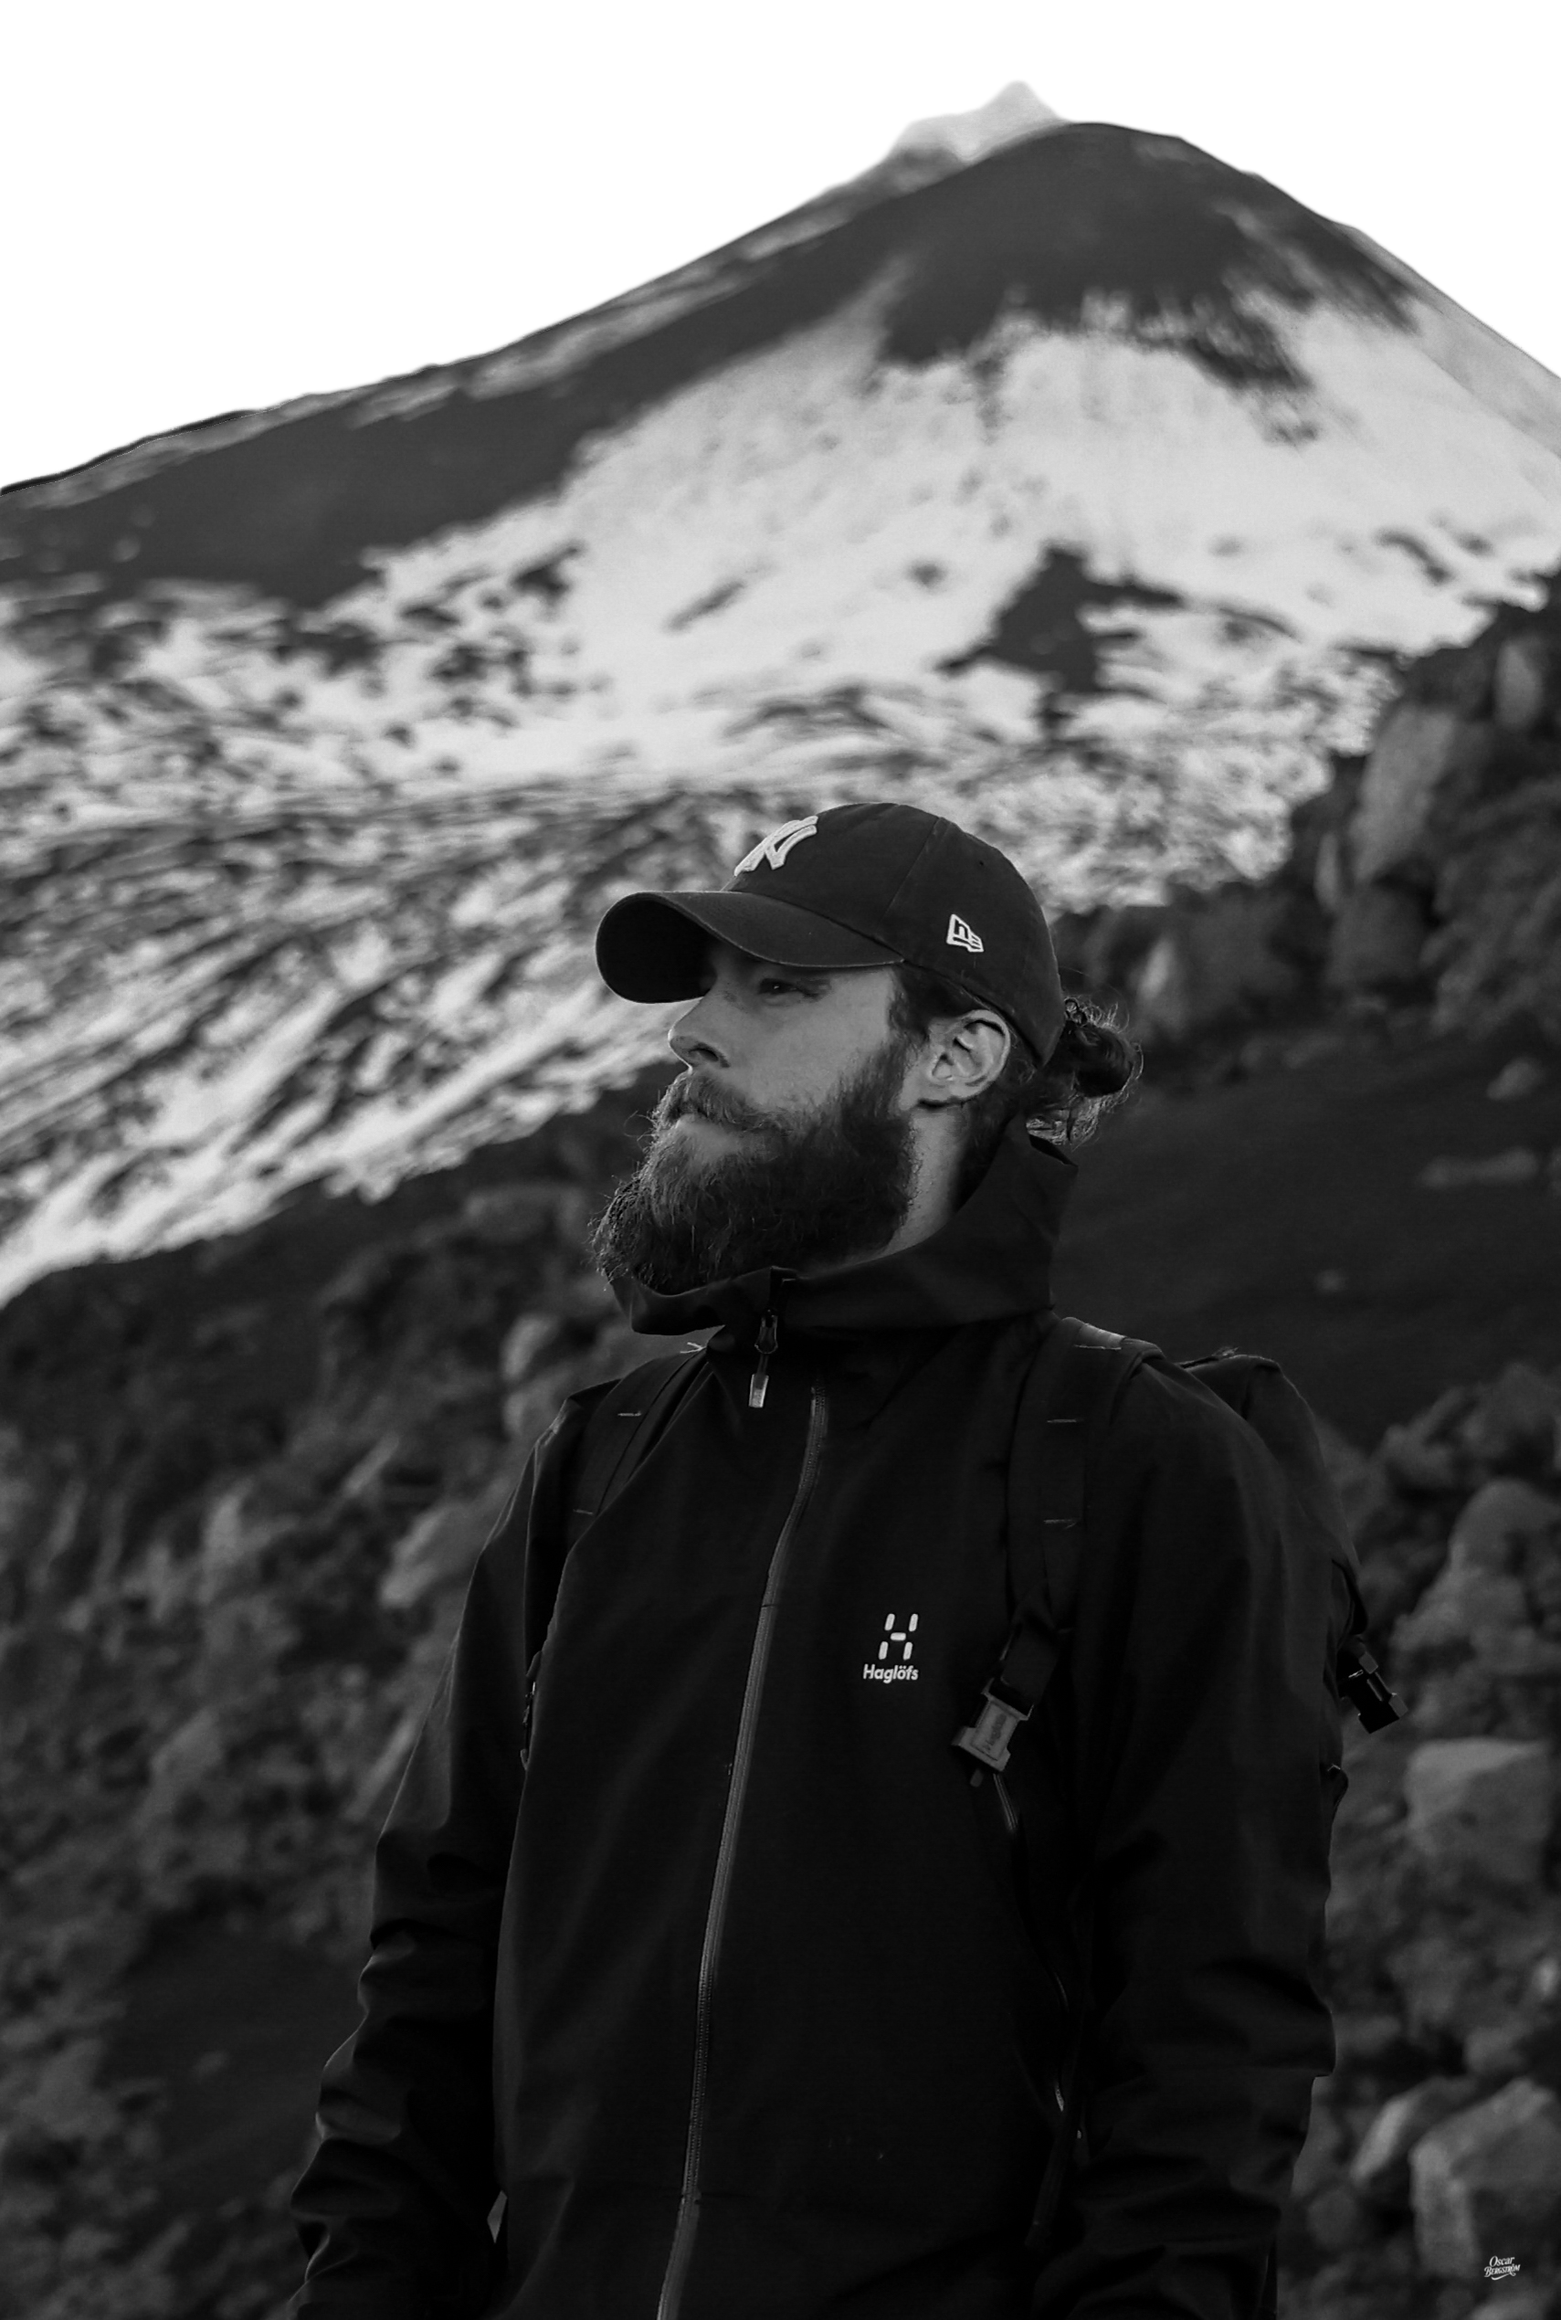
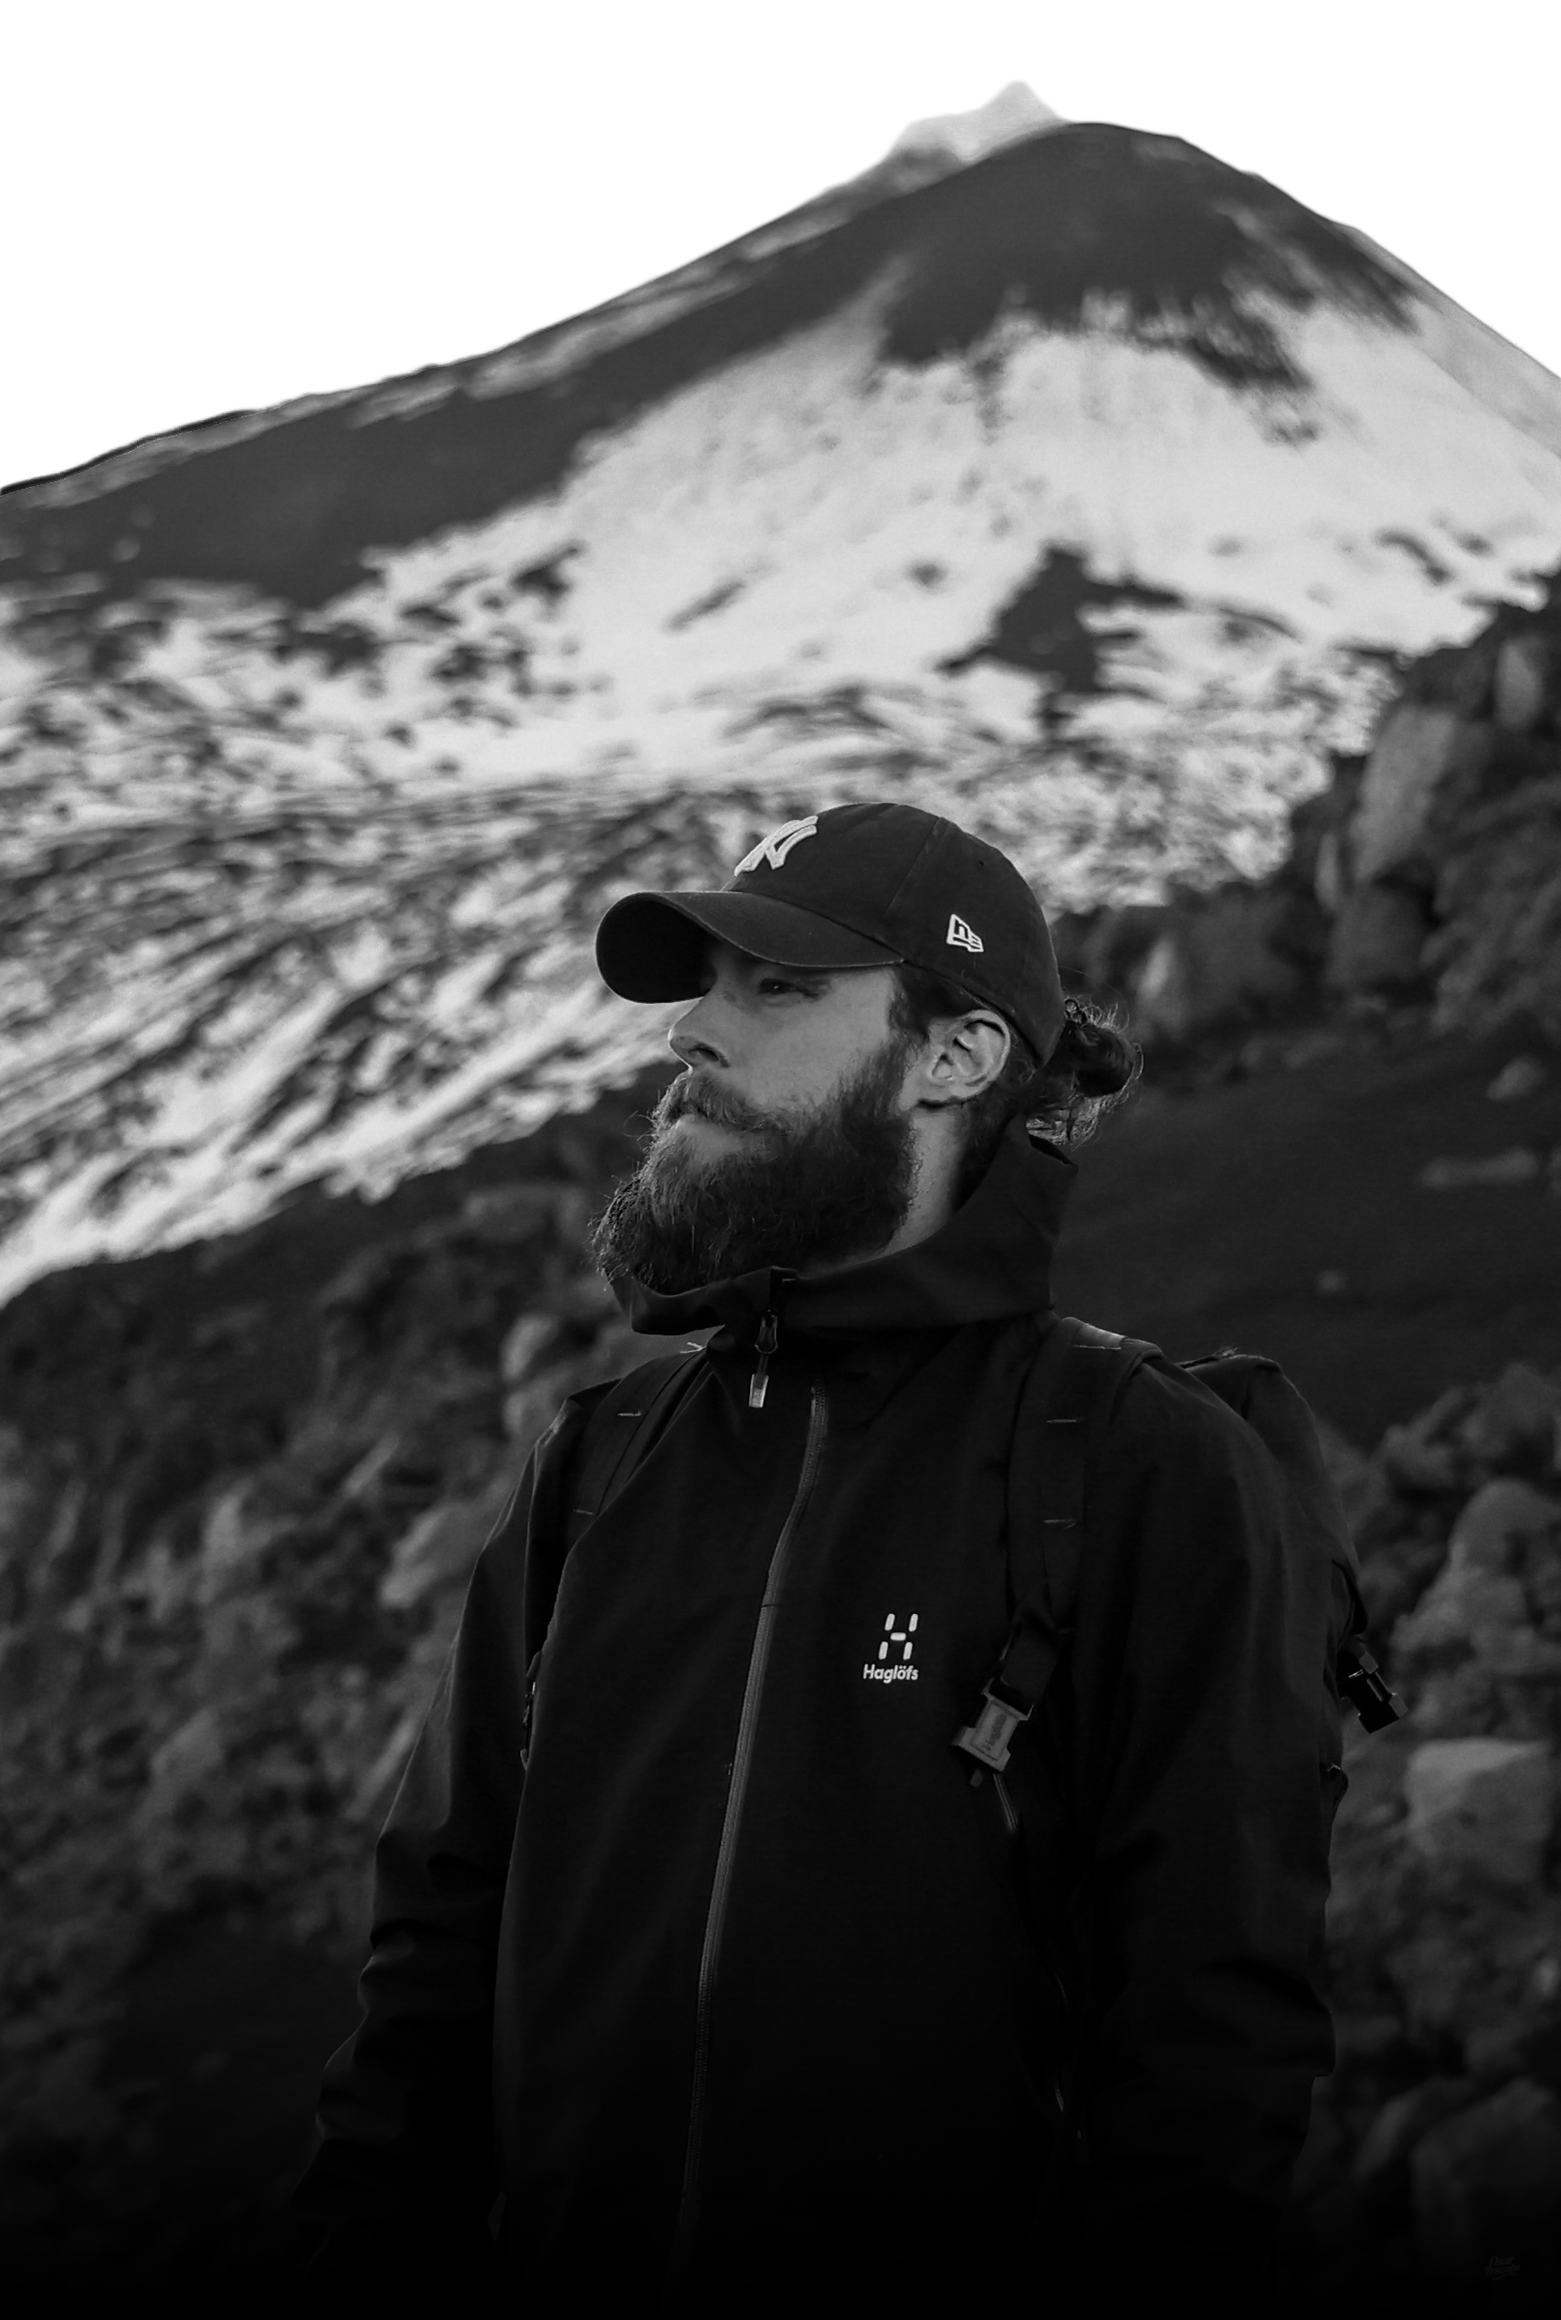
updated and added more media

diff --git a/style.css b/style.css
@@ -86,9 +86,7 @@ body{
 #header{
     width: 100%;
     height: 100vh;
-    background-image:
-        linear-gradient(to bottom, rgba(0,0,0,0) calc(100% - 300px), rgba(0,0,0,1) 100%),
-        url(https://oscarbergstrom.netlify.app/images/background.jpg);
+    background-image: url(https://oscarbergstrom.netlify.app/images/background.jpg);
     background-size: cover;
     background-position: center;
     background-repeat: no-repeat;
@@ -222,23 +220,6 @@ nav ul li a:hover::after{
 .about-col-1 img {
     width: 100%;
     display: block;
-}
-
-.about-col-1::after {
-    content: "";
-    position: absolute;
-    top: 0;
-    left: 0;
-    right: 0;
-    bottom: 0;
-    background: linear-gradient(
-        to bottom, 
-        rgba(0, 0, 0, 0) 50%, 
-        rgba(0, 0, 0, 0.5) 70%, 
-        rgba(0, 0, 0, 0.9) 85%, 
-        rgba(0, 0, 0, 1) 100%
-    );
-    pointer-events: none;
 }
 
 .about-col-2 {
@@ -471,14 +452,56 @@ form .btn2{
 nav .fas{
     display: none;
 }
+@media only screen and (max-width: 1150px){
 
+    /*-----------------------------Nav-----------------------------*/
+    
+    /*-----------------------------About-----------------------------*/
+    
+    /*-----------------------------Portfolio-----------------------------*/
+    
+   
+    
+    .work-list{
+        grid-template-columns: repeat(auto-fit, minmax(250px, 1fr));
+        grid-gap: 20px;
+    }
+    
+    /*-----------------------------Contact-----------------------------*/
+        .btn.btn2{
+            padding: 10px 20px;
+            margin: 10px 10px 30px 0px;
+        }
+}
+
+@media only screen and (max-width: 850px){
+
+    /*-----------------------------Nav-----------------------------*/
+    
+    /*-----------------------------About-----------------------------*/
+    
+    /*-----------------------------Portfolio-----------------------------*/
+    
+    
+    .work-list{
+        grid-template-columns: repeat(auto-fit, minmax(250px, 1fr));
+    }
+    
+    /*-----------------------------Contact-----------------------------*/
+        .btn.btn2{
+            padding: 10px 20px;
+            margin: 10px 5px 30px 0px;
+        }
+}
+    
 @media only screen and (max-width: 600px){
     #header{
-        background-image: url(https://oscarbergstrom.netlify.app/images/small-screens/background.jpg);
+        background-image: 
+        url(https://oscarbergstrom.netlify.app/images/small-screens/background.jpg);
     }
 
     .header-text{
-        margin-top: 100%;
+        margin-top: 0px;
         font-size: 16px;
     }
 
@@ -494,6 +517,10 @@ nav .fas{
     nav .fas{
         display: block;
         font-size: 25px;
+    }
+
+    .logo{
+        width: 70px;
     }
 
     nav ul{
@@ -524,7 +551,11 @@ nav .fas{
         margin: 25px;
     }
 
-    /*-----------------------------About me-----------------------------*/
+    /*-----------------------------About-----------------------------*/
+    #about{
+        padding: 30px 0;
+    }
+
     .sub-title{
         font-size: 40px;
     }
@@ -534,7 +565,7 @@ nav .fas{
     }
 
     .about-col-1{
-        margin-bottom: 30px;
+        margin-bottom: 0px;
     }
 
     .about-col-2{
@@ -546,10 +577,14 @@ nav .fas{
         margin-right: 20px;
     }
 /*-----------------------------Portfolio-----------------------------*/
+#portfolio{
+    padding: 10px, 0;
+    
+}
 
 .work-list{
    
-    grid-template-columns: repeat(auto-fit, minmax(100px, 1fr));
+    grid-template-columns: repeat(auto-fit, minmax(200px, 1fr));
     grid-gap: 15px;
 }
 
@@ -558,8 +593,37 @@ nav .fas{
         flex-basis: 100%;
     }
 
+    .btn.btn2{
+        padding: 15px 40px;
+        margin: 20px 20px 30px 0px;
+    }
+
     .copyright{
         font-size: 14px;
+    }
+}
+
+@media only screen and (max-width: 400px){
+
+/*-----------------------------Nav-----------------------------*/
+
+/*-----------------------------About-----------------------------*/
+
+/*-----------------------------Portfolio-----------------------------*/
+
+.work{
+    padding: 8px;
+}
+
+.work-list{
+    grid-template-columns: repeat(auto-fit, minmax(100px, 1fr));
+    grid-gap: 15px;
+}
+
+/*-----------------------------Contact-----------------------------*/
+    .btn.btn2{
+        padding: 10px 20px;
+        margin: 10px 10px 30px 0px;
     }
 }
 
